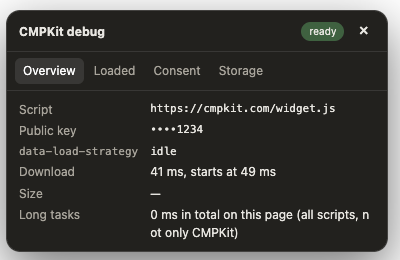
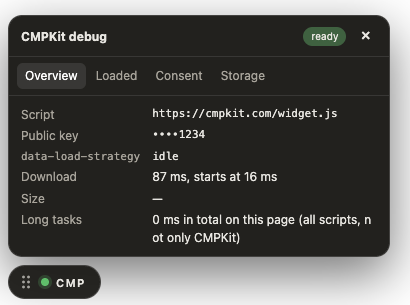
feat: drag handle, status dot, reset cookies; release 0.2.0

diff --git a/src/runtime/components/CmpkitDebug.vue b/src/runtime/components/CmpkitDebug.vue
@@ -17,7 +17,7 @@ const position = (useRuntimeConfig().public.cmpkitDebug as { position?: string }
 const STORAGE_KEY = 'nuxt-cmpkit-debug:position'
 const pos = ref<Point | null>(null)
 const dragging = ref(false)
-const fabEl = ref<HTMLButtonElement | null>(null)
+const fabEl = ref<HTMLElement | null>(null)
 let drag: { startX: number, startY: number, originX: number, originY: number, moved: boolean } | null = null
 let suppressClick = false
 const viewport = () => ({ width: window.innerWidth, height: window.innerHeight })
@@ -46,7 +46,7 @@ function onPointerDown(e: PointerEvent) {
   if (!el) return
   const rect = el.getBoundingClientRect()
   drag = { startX: e.clientX, startY: e.clientY, originX: rect.left, originY: rect.top, moved: false }
-  try { el.setPointerCapture(e.pointerId) } catch { /* not supported */ }
+  try { (e.currentTarget as HTMLElement).setPointerCapture(e.pointerId) } catch { /* not supported */ }
 }
 function onPointerMove(e: PointerEvent) {
   const el = fabEl.value
@@ -68,6 +68,17 @@ function onPointerUp() {
   savePosition()
   suppressClick = true
   setTimeout(() => { suppressClick = false }, 0)
+}
+function onGripKey(e: KeyboardEvent) {
+  const step = e.shiftKey ? 48 : 16
+  const delta = ({ ArrowLeft: [-step, 0], ArrowRight: [step, 0], ArrowUp: [0, -step], ArrowDown: [0, step] } as Record<string, [number, number]>)[e.key]
+  const el = fabEl.value
+  if (!delta || !el) return
+  e.preventDefault()
+  const rect = el.getBoundingClientRect()
+  const from = pos.value ?? { x: rect.left, y: rect.top }
+  pos.value = clampPosition({ x: from.x + delta[0], y: from.y + delta[1] }, { width: rect.width, height: rect.height }, viewport())
+  savePosition()
 }
 function onResize() {
   if (!pos.value || !fabEl.value) return
@@ -277,9 +288,12 @@ function resetConsent() {
       </div>
     </section>
 
-    <button type="button" ref="fabEl" class="fab" :class="[`lvl-${level}`, { dragging }]" :aria-expanded="open" aria-label="Toggle the CMPKit debug panel" @click="toggle" @pointerdown="onPointerDown" @pointermove="onPointerMove" @pointerup="onPointerUp" @pointercancel="onPointerUp">
-      CMP
-    </button>
+    <div ref="fabEl" class="dock" :class="{ dragging }">
+      <button type="button" class="grip" aria-label="Drag to move the button (arrow keys also work)" @pointerdown="onPointerDown" @pointermove="onPointerMove" @pointerup="onPointerUp" @pointercancel="onPointerUp" @keydown="onGripKey">
+        <svg width="10" height="16" viewBox="0 0 10 16" aria-hidden="true" fill="currentColor"><circle cx="2.5" cy="3" r="1.4" /><circle cx="7.5" cy="3" r="1.4" /><circle cx="2.5" cy="8" r="1.4" /><circle cx="7.5" cy="8" r="1.4" /><circle cx="2.5" cy="13" r="1.4" /><circle cx="7.5" cy="13" r="1.4" /></svg>
+      </button>
+      <button type="button" class="fab" :aria-expanded="open" :aria-label="`Toggle the CMPKit debug panel (status: ${level})`" @click="toggle"><span class="light" :class="`lvl-${level}`" aria-hidden="true" />CMP</button>
+    </div>
   </div>
 </template>
 
@@ -289,8 +303,13 @@ function resetConsent() {
 .moved { right: auto; bottom: auto; }
 .reset { cursor: pointer; border: 1px solid #ffffff33; background: none; color: #e8e6e1; border-radius: 999px; padding: 2px 8px; font: inherit; font-size: 10px; white-space: nowrap; }
 .is-left { left: 16px; } .is-right { right: 16px; }
-.fab { position: relative; cursor: grab; touch-action: none; user-select: none; border: 1px solid #ffffff26; background: #1b1a17f2; color: #e8e6e1; border-radius: 999px; padding: 8px 14px; font: 600 11px/1 system-ui, sans-serif; letter-spacing: .14em; white-space: nowrap; }
-.fab.lvl-ok { background: #3f6140; border-color: #6b9168; color: #fff; } .fab.lvl-warn { background: #8a6530; border-color: #c9a14a; color: #fff; } .fab.lvl-bad { background: #9e3b2f; border-color: #c46a5c; color: #fff; }
+.dock { position: relative; display: inline-flex; align-items: center; border: 1px solid #ffffff26; background: #1b1a17f2; color: #e8e6e1; border-radius: 999px; }
+.grip { cursor: grab; touch-action: none; user-select: none; display: inline-flex; align-items: center; border: 0; background: none; color: inherit; opacity: .65; padding: 8px 4px 8px 12px; border-radius: 999px 0 0 999px; }
+.grip:hover, .grip:focus-visible { opacity: 1; }
+.dock.dragging .grip { cursor: grabbing; }
+.fab { cursor: pointer; border: 0; background: none; color: inherit; border-radius: 0 999px 999px 0; padding: 8px 14px 8px 6px; font: 600 11px/1 system-ui, sans-serif; letter-spacing: .14em; white-space: nowrap; }
+.light { display: inline-block; width: 8px; height: 8px; border-radius: 50%; margin-right: 7px; vertical-align: 1px; }
+.light.lvl-ok { background: #5fbf6a; box-shadow: 0 0 0 3px #5fbf6a33; } .light.lvl-warn { background: #e0b341; box-shadow: 0 0 0 3px #e0b34133; } .light.lvl-bad { background: #e5584a; box-shadow: 0 0 0 3px #e5584a33; }
 .actions button:disabled { opacity: .45; cursor: default; } .actions button.danger { border-color: #c46a5c; color: #f0b3a9; }
 .panel { width: min(380px, calc(100vw - 32px)); max-height: min(70vh, 560px); display: flex; flex-direction: column; position: absolute; background: #1b1a17f7; border: 1px solid #ffffff26; border-radius: 14px; box-shadow: 0 18px 50px #0008; overflow: hidden; }
 header { display: flex; align-items: center; gap: 8px; padding: 10px 12px; border-bottom: 1px solid #ffffff1a; }
@@ -309,5 +328,4 @@ table { width: 100%; border-collapse: collapse; } th { text-align: left; color: 
 .actions { display: flex; flex-wrap: wrap; gap: 6px; margin-top: 10px; }
 .actions button { cursor: pointer; border: 1px solid #ffffff33; background: #ffffff0d; color: inherit; border-radius: 8px; padding: 5px 10px; white-space: nowrap; font: inherit; }
 .log { list-style: none; margin: 0; padding: 0; }
-.fab.dragging { cursor: grabbing; }
 </style>

diff --git a/README.md b/README.md
@@ -13,8 +13,8 @@ A development-only debug panel for the [CMPKit](https://cmpkit.com) consent widg
 - **Loaded:** every third-party origin the page requests, with request count, size and when it started. Useful to check what runs before the visitor chooses.
 - **Consent:** the current consent state per category, plus buttons to open the settings, show the banner again or reset the stored choice, and a log of the changes since the page loaded.
 - **Storage:** the cookies set by CMPKit, the other cookies (names only) and the `localStorage` keys, with two buttons: **Reset CMPKit cookies** and **Reset all cookies** (a second click within 4 seconds confirms, no browser dialog). On localhost, "all cookies" also signs you out of your other local apps.
-- **Colour at a glance:** the CMP button is green when the setup is healthy, amber when there are only notices (for example other cookies), and red when something is broken (no script, empty key, script loaded twice, widget not ready).
-- **Movable:** drag the button anywhere; its position is remembered, and a **Reset position** button appears in the panel.
+- **Status dot at a glance:** a dot next to CMP is green when the setup is healthy, yellow when there are only notices (for example other cookies), and red when something is broken (no script, empty key, script loaded twice, widget not ready).
+- **Movable:** drag the handle on the left of the button (or focus it and use the arrow keys, Shift for bigger steps). The CMP part stays a normal button that opens the panel. The position is remembered, and a **Reset position** button appears in the panel.
 - **Localhost only.** The panel renders in development on `localhost`, `127.0.0.1` and `*.localhost`. In a production build the component is an empty stub: no panel code is shipped.
 - Reads only what the page already has (script tag, Performance API, cookies, `localStorage`, `window.CMPKit`). Nothing is sent anywhere, no telemetry.
 - No Tailwind and no other dependency besides Nuxt: the panel brings its own styles.
